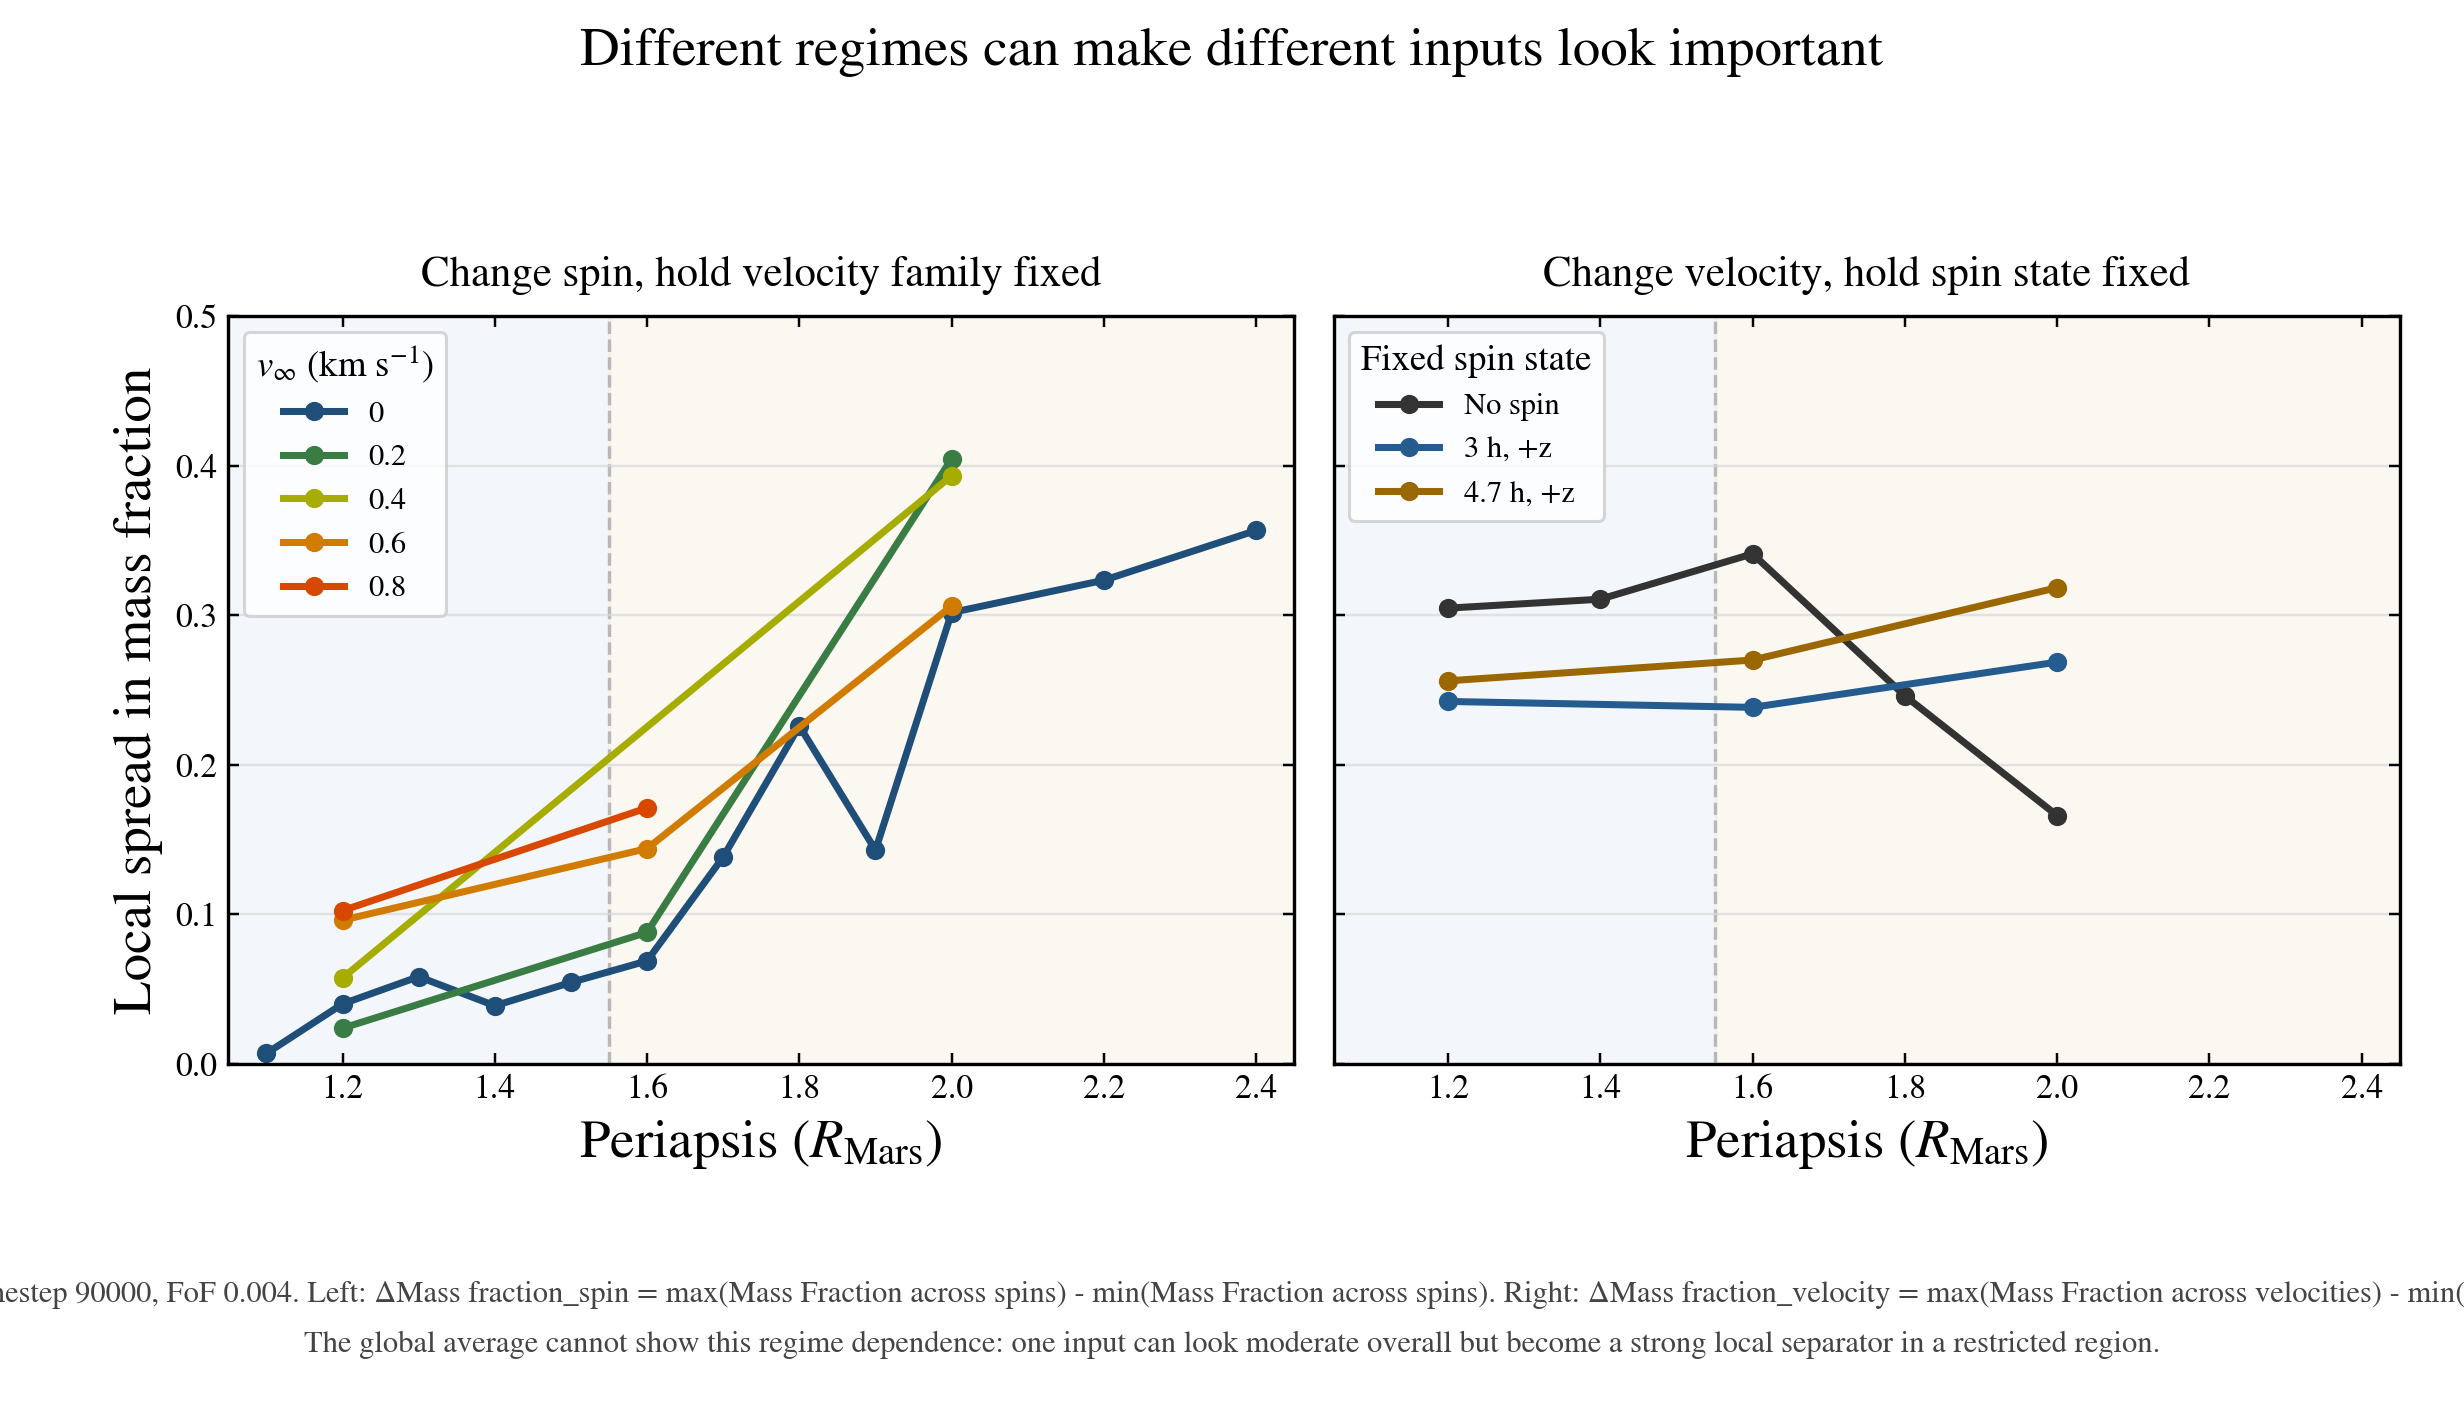
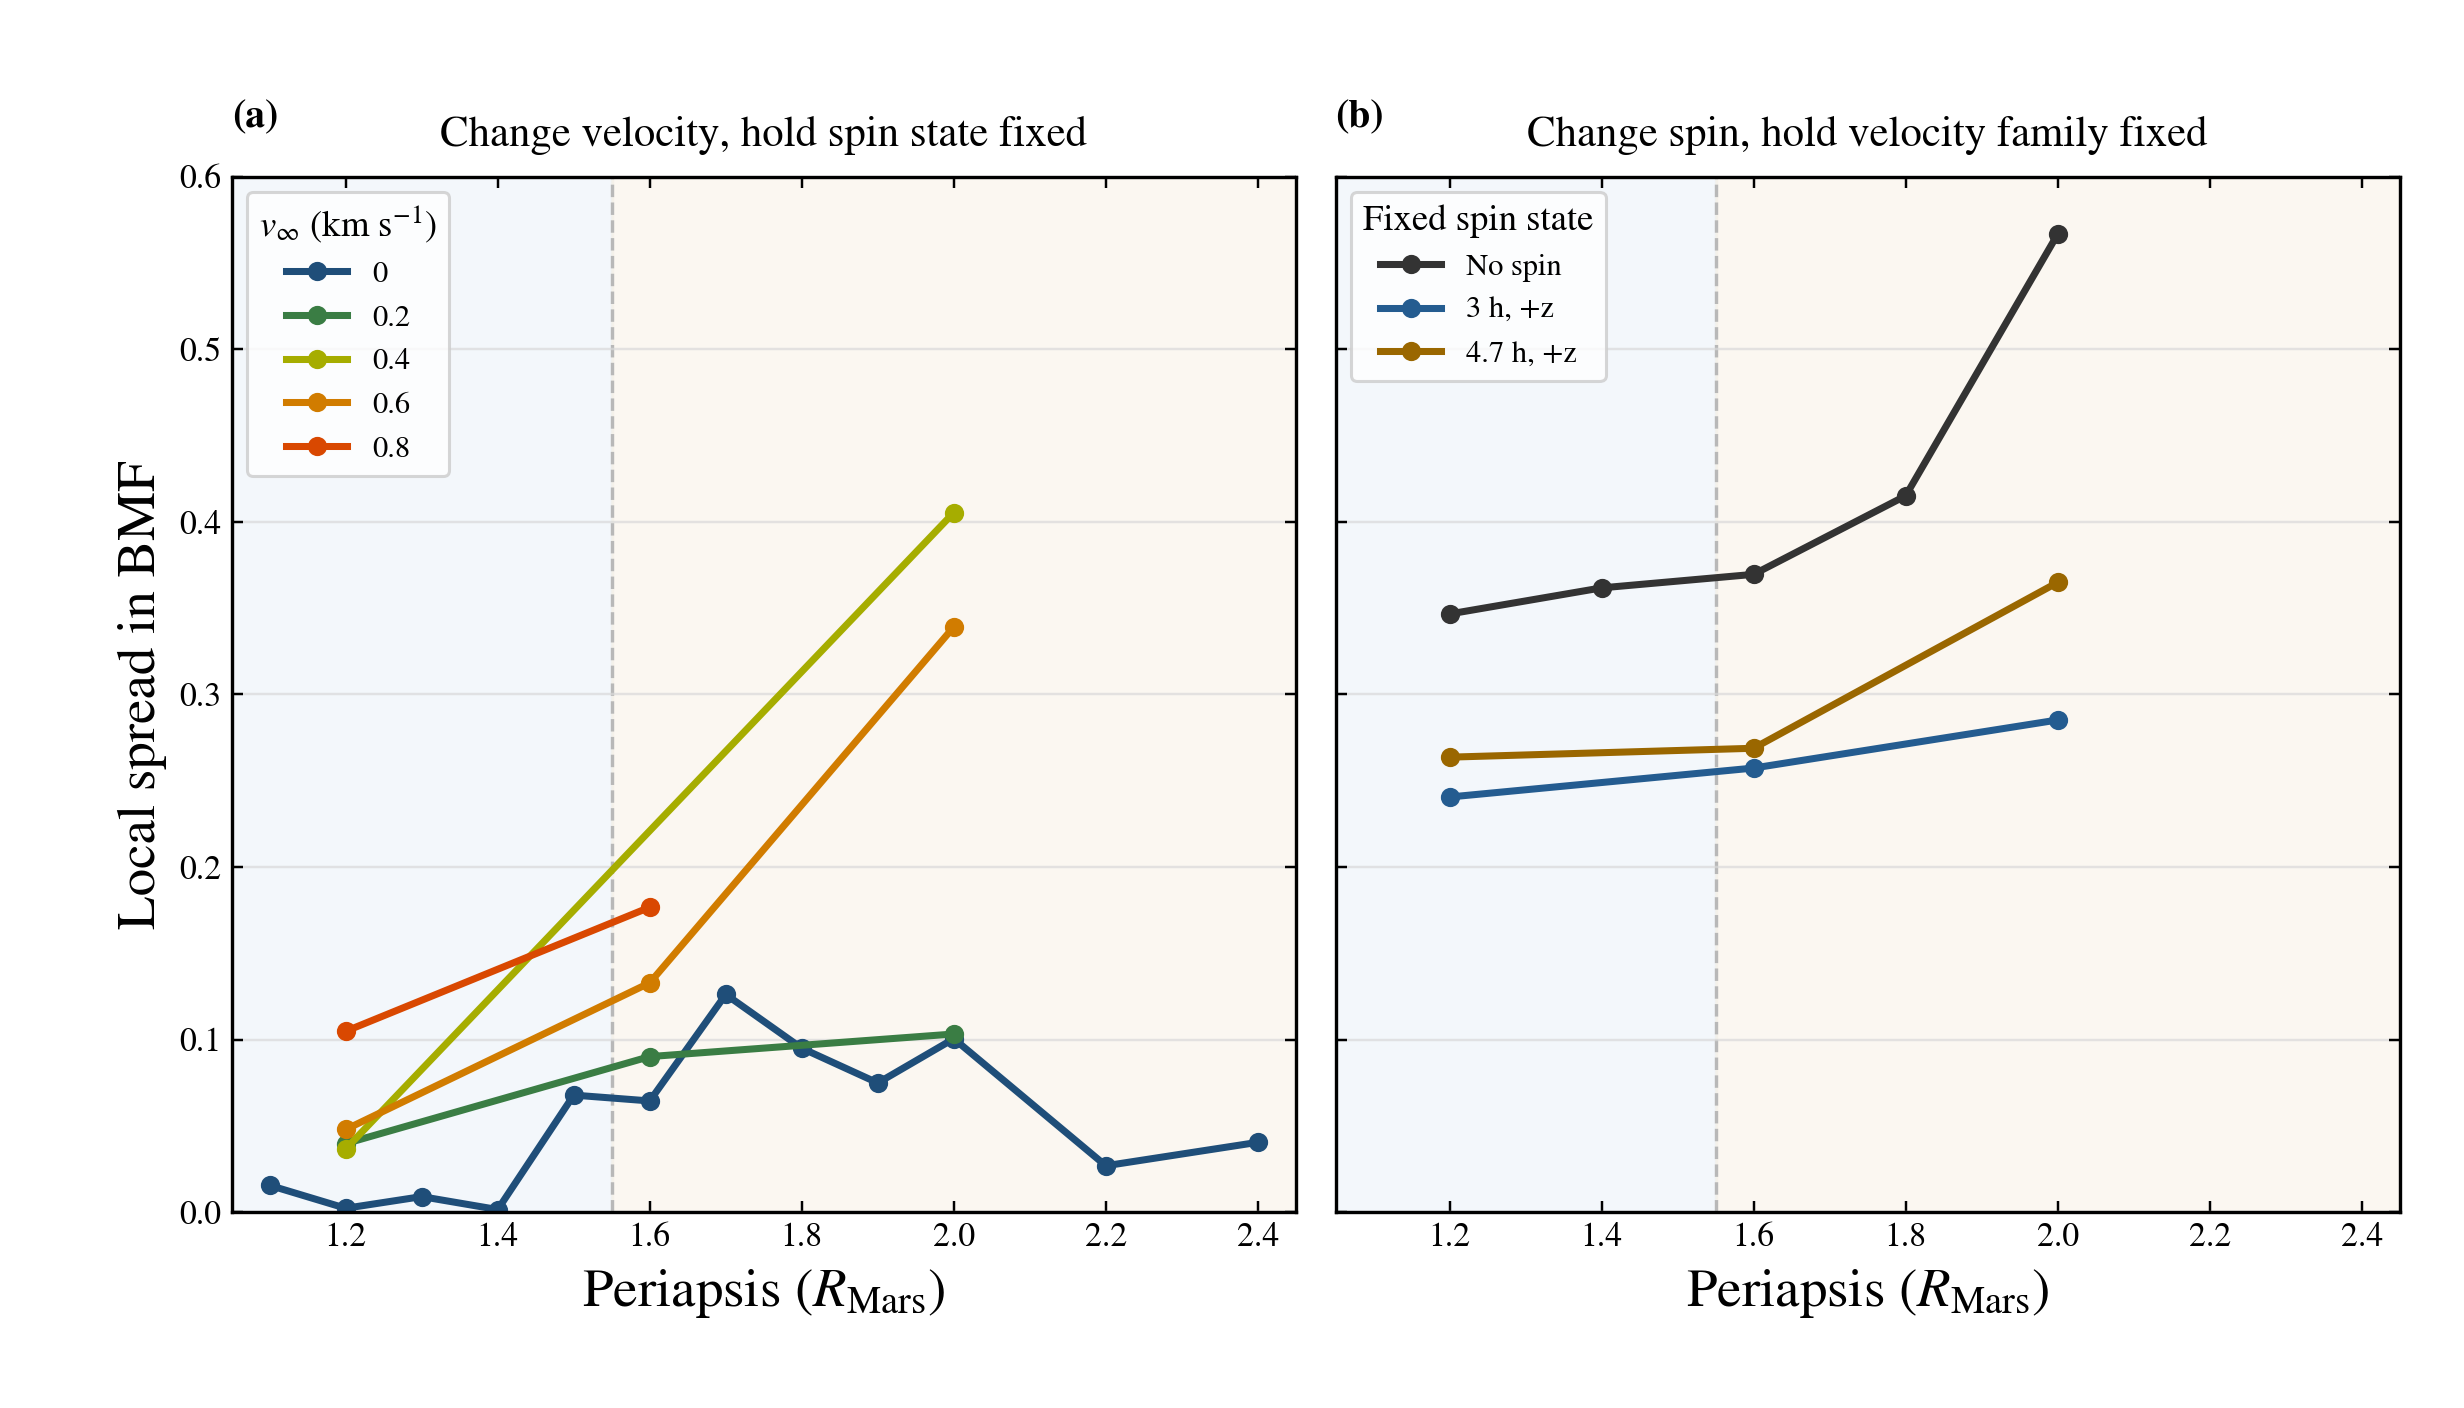
fix: minor text overlap in figure 4 and 5

diff --git a/report-table-figure/figures/figure4_build.py b/report-table-figure/figures/figure4_build.py
@@ -10,7 +10,7 @@ from matplotlib.lines import Line2D
 
 
 SCRIPT_DIR = Path(__file__).resolve().parent
-YMAX_OVERRIDE: float | None = None
+YMAX_OVERRIDE: float | None = 0.6
 SPIN_ORDER = ("no spin", "3h z", "4.7h z")
 SPIN_LABELS = {
     "no spin": "No spin",
@@ -195,8 +195,28 @@ def make_plot(
         ax.set_xlabel(r"Periapsis ($R_{\mathrm{Mars}}$)", fontsize=18)
 
     ax_spin.set_ylabel("Local spread in BMF", fontsize=18)
-    ax_spin.set_title("Change spin, hold velocity family fixed", fontsize=14, pad=10)
-    ax_velocity.set_title("Change velocity, hold spin state fixed", fontsize=14, pad=10)
+    ax_spin.set_title("Change velocity, hold spin state fixed", fontsize=14, pad=10)
+    ax_velocity.set_title("Change spin, hold velocity family fixed", fontsize=14, pad=10)
+    ax_spin.text(
+        0.0,
+        1.04,
+        "(a)",
+        transform=ax_spin.transAxes,
+        fontsize=13,
+        fontweight="bold",
+        va="bottom",
+        ha="left",
+    )
+    ax_velocity.text(
+        0.0,
+        1.04,
+        "(b)",
+        transform=ax_velocity.transAxes,
+        fontsize=13,
+        fontweight="bold",
+        va="bottom",
+        ha="left",
+    )
 
     velocity_handles = [
         Line2D([0], [0], color=VELOCITY_COLORS[velocity], linewidth=2.3, marker="o", markersize=5.3, label=f"{velocity:g}")
@@ -226,28 +246,8 @@ def make_plot(
         title_fontsize=12,
     )
 
-    fig.suptitle("Different regimes can make different inputs look important", fontsize=18, y=0.98)
-    fig.text(
-        0.5,
-        0.075,
-        "Matched subset: A2000, n65, timestep 90000, FoF 0.004. "
-        "Left: ΔBMF_spin = max(BMF across spins) - min(BMF across spins). "
-        "Right: ΔBMF_velocity = max(BMF across velocities) - min(BMF across velocities).",
-        ha="center",
-        fontsize=10.0,
-        color="#444444",
-    )
-    fig.text(
-        0.5,
-        0.04,
-        "The global average cannot show this regime dependence: one input can look moderate overall but become a strong local separator in a restricted region.",
-        ha="center",
-        fontsize=10.0,
-        color="#444444",
-    )
-
     png_out.parent.mkdir(parents=True, exist_ok=True)
-    fig.tight_layout(rect=(0.03, 0.14, 0.99, 0.91))
+    fig.tight_layout(rect=(0.03, 0.03, 0.99, 0.96))
     fig.savefig(png_out, dpi=220)
     plt.close(fig)
 

diff --git a/report-table-figure/figures/figure5_build.py b/report-table-figure/figures/figure5_build.py
@@ -314,7 +314,7 @@ def main() -> None:
         ax_c,
         mass_peri_bmf,
         mass_peri_cov,
-        "Mass vs periapsis: mean observed BMF",
+        "Mass-periapsis:\nmean observed mass fraction",
         "Periapsis ($R_{Mars}$)",
         "Mass log10 kg",
         PANEL_LABELS[2],
@@ -344,7 +344,7 @@ def main() -> None:
         ax_f,
         peri_vel_bmf,
         peri_vel_cov,
-        "Periapsis vs velocity: mean observed BMF",
+        "Periapsis-velocity:\nmean observed mass fraction",
         r"$v_{\infty}$ (km s$^{-1}$)",
         "Periapsis $R_{Mars}$",
         PANEL_LABELS[5],
@@ -368,11 +368,6 @@ def main() -> None:
     for cbar in (support_cbar, error_cbar, bmf_cbar):
         cbar.ax.yaxis.set_label_position("left")
 
-    fig.suptitle(
-        "Coverage, held-out error, and observed BMF across the sampled parameter space",
-        fontsize=17,
-        y=0.985,
-    )
     fig.legend(
         handles=[
             Patch(facecolor=ZERO_BMF_COLOR, edgecolor="none", label="Observed mean BMF = 0"),
